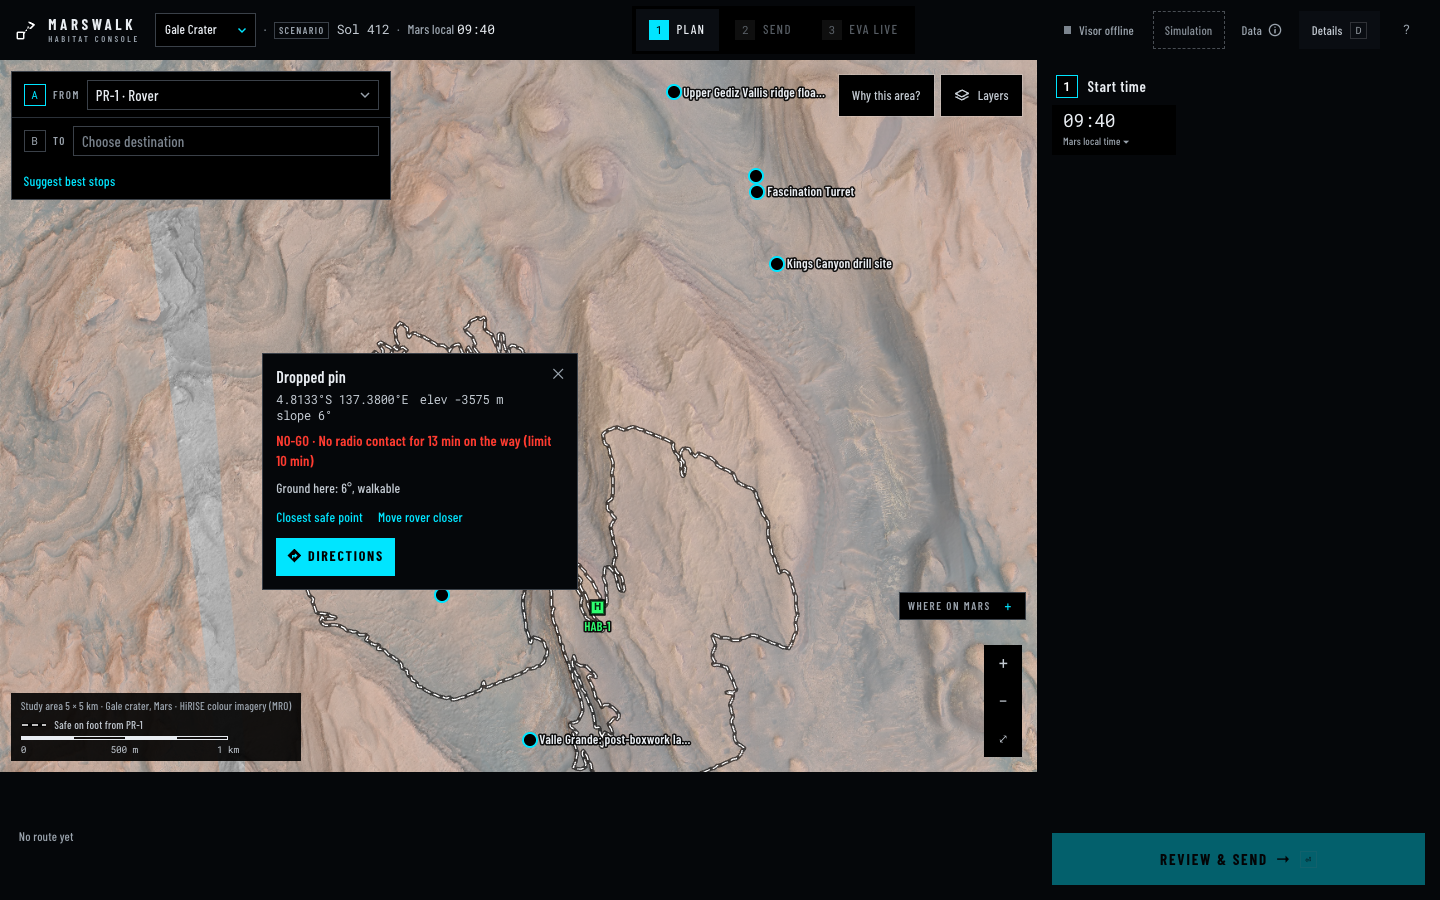
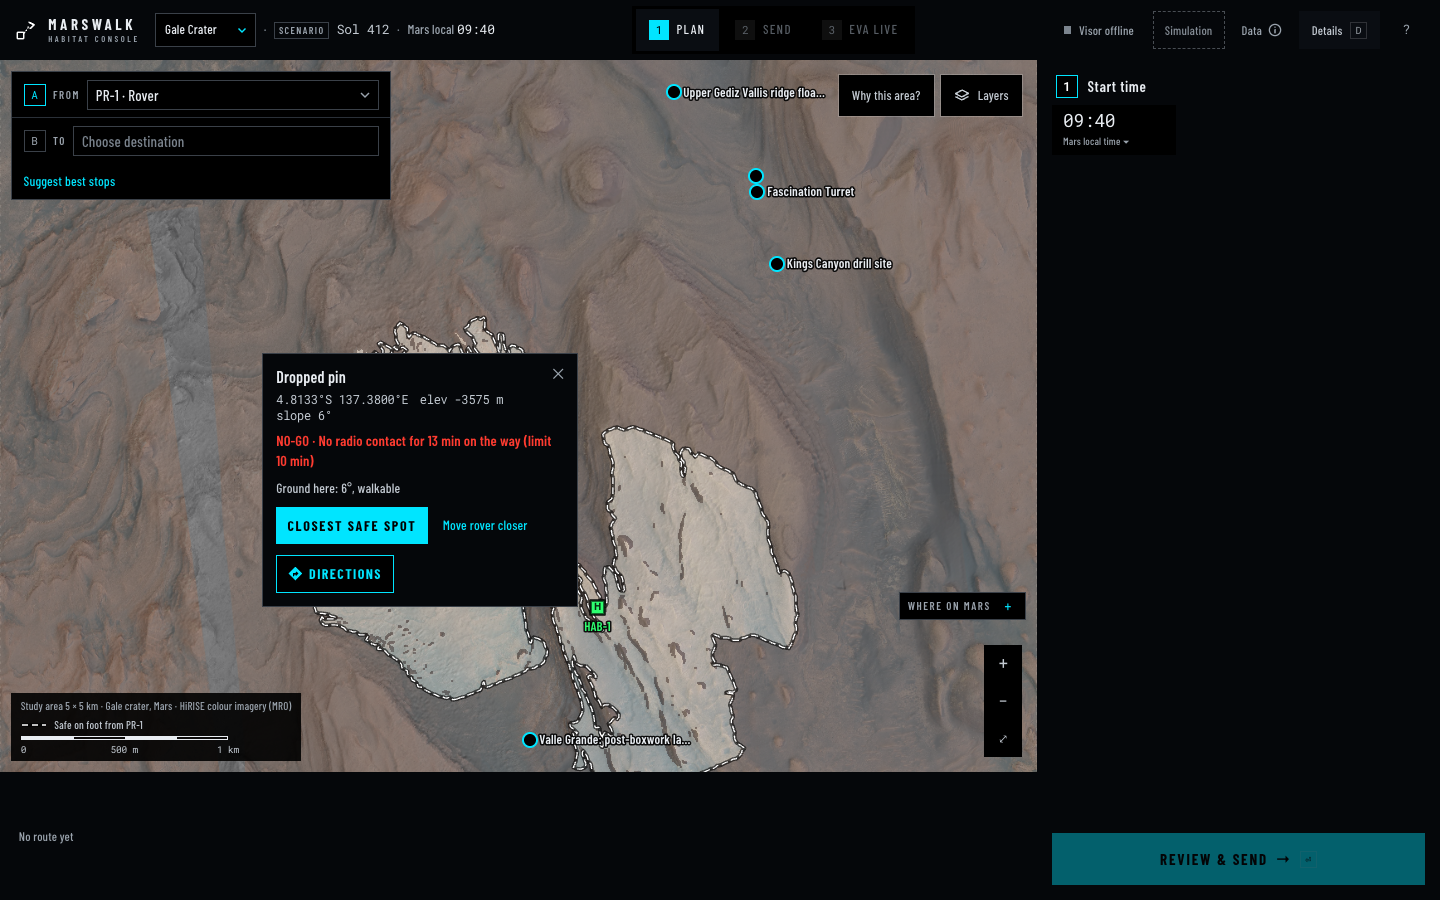
Console round 3: walkable area shaded from the start; no amber; NO-GO card leads with the fix
From the third blind round (all three testers' top ask: "show me where I can walk"):
- The exact per-cell safe-area shading (used by "Why this area?") is on by
  default at a calmer strength: walkable ground lit, the rest dimmed, small
  steep patches inside the outline dimmed too (the simplified outline alone
  hid them).
- "Why this area?" highlighted each rule's area in amber; now red (both the
  WebGL and canvas paths). No amber anywhere in the product.
- Place card: on a NO-GO the closest safe spot is the primary button and
  Directions steps back to secondary.
- One plain line when no safe spot is near: "No safe spot within 300 m of
  your pin."

123 unit tests and 26 real-input UX tests pass.

diff --git a/Frontend/AdminView/src/components/PlaceCard.tsx b/Frontend/AdminView/src/components/PlaceCard.tsx
@@ -147,8 +147,8 @@ function PlaceCardInner({ root, pop }: { root: RefObject<HTMLElement | null>; po
         </div>
       )}
       {mine?.verdict === 'NO-GO' && (
-        <div className="mt-2.5 flex flex-wrap gap-x-4 gap-y-1 text-[13.5px]">
-          <button data-testid="place-fix-closest" onClick={() => void fixFromPin('closest')} className="text-cyan hover:underline">Closest safe point</button>
+        <div className="mt-2.5 flex flex-wrap items-center gap-x-4 gap-y-2 text-[13.5px]">
+          <Btn testId="place-fix-closest" primary onClick={() => void fixFromPin('closest')}>Closest safe spot</Btn>
           {mine.rule !== 'slope_max_deg' && <button data-testid="place-fix-rover" onClick={() => void fixFromPin('rover')} className="text-cyan hover:underline">Move rover closer</button>}
         </div>
       )}
@@ -157,9 +157,9 @@ function PlaceCardInner({ root, pop }: { root: RefObject<HTMLElement | null>; po
           <Btn testId="place-remove" onClick={() => removeDestination(id!)}>Remove stop</Btn>
         ) : (
           <>
-            <Btn testId="place-directions" primary onClick={() => directionsTo(target)}>
+            <Btn testId="place-directions" primary={mine?.verdict !== 'NO-GO'} onClick={() => directionsTo(target)}>
               <span className="inline-flex items-center gap-1.5">
-                <svg width="15" height="15" viewBox="0 0 16 16" aria-hidden><path d="M8 0.8 15.2 8 8 15.2 0.8 8Z" fill="currentColor" /><path d="M6 11V8.2h4M8.4 6.4 10.2 8.2 8.4 10" fill="none" stroke="#00e5ff" strokeWidth="1.5" /></svg>
+                <svg width="15" height="15" viewBox="0 0 16 16" aria-hidden><path d="M8 0.8 15.2 8 8 15.2 0.8 8Z" fill="currentColor" /><path d="M6 11V8.2h4M8.4 6.4 10.2 8.2 8.4 10" fill="none" stroke={mine?.verdict === 'NO-GO' ? '#000' : '#00e5ff'} strokeWidth="1.5" /></svg>
                 Directions
               </span>
             </Btn>

diff --git a/Frontend/AdminView/src/store.ts b/Frontend/AdminView/src/store.ts
@@ -206,8 +206,8 @@ export const useConsole = create<ConsoleState>()(
     attemptPlan: null,
     attemptPin: null,
     pinCheck: null,
-    overlays: [],
-    opacity: { safezone: 1, elevation: 0.8, slope: 0.85, rough: 0.85, ti: 0.75, crism: 0.8, shelter: 0.9, walkback: 0.85, los: 0.9 },
+    overlays: ['safezone'], // exact walkable-area shading on from the start (testers: "where can I go?")
+    opacity: { safezone: 0.6, elevation: 0.8, slope: 0.85, rough: 0.85, ti: 0.75, crism: 0.8, shelter: 0.9, walkback: 0.85, los: 0.9 },
     // Calm default: imagery (+ lighting), route, science targets, base and rover, safe-area outline.
     vectors: { outline: true, contours: false, keepouts: false, traverse: false, stations: true, stationDetail: false, route: true, shelters: true, imagery: true, relief: true },
     details: { open: false, tab: 'report' },

diff --git a/Shared/src/map/styles.ts b/Shared/src/map/styles.ts
@@ -150,7 +150,7 @@ export function safeZoneStyle(
   const active: ExpressionValue = ['any', ...exclusions.map(([e, i]) => ['all', e, ['==', v('act'), i]] as ExpressionValue)];
   const veil = colors.veil ?? [8, 9, 12, 0.58];
   const safe = colors.safe ?? [79, 209, 224, 0.12];
-  const hot = colors.active ?? [242, 181, 68, 0.5];
+  const hot = colors.active ?? [255, 59, 48, 0.5]; // the rule being explained: red (no amber in this product)
   return {
     variables: { ...SAFE_ZONE_OPEN, ...vars } as unknown as Record<string, number>,
     color: [

diff --git a/Frontend/AdminView/src/map/MapController.ts b/Frontend/AdminView/src/map/MapController.ts
@@ -610,7 +610,7 @@ export class MapController {
       const prev = ex.some((k) => k !== v.act);
       const act = ex.includes(v.act);
       if (prev || (act && v.actGlow < 0.3)) { out[o] = 8; out[o + 1] = 9; out[o + 2] = 12; out[o + 3] = 140; }
-      else if (act) { out[o] = 242; out[o + 1] = 181; out[o + 2] = 68; out[o + 3] = 128; }
+      else if (act) { out[o] = 255; out[o + 1] = 59; out[o + 2] = 48; out[o + 3] = 128; }
       else { out[o] = 79; out[o + 1] = 209; out[o + 2] = 224; out[o + 3] = 26; }
     };
   }

diff --git a/Frontend/AdminView/src/fixes.ts b/Frontend/AdminView/src/fixes.ts
@@ -117,7 +117,7 @@ export async function findClosestSafe(destId: string) {
     }
   }
   if (my !== token) return;
-  set({ fix: { destId, kind: 'closest', status: 'none', note: cands.length ? `No spot within ${CLOSEST_MAX_M} m makes this walk safe.` : `Every spot within ${CLOSEST_MAX_M} m breaks a hard rule.` } });
+  set({ fix: { destId, kind: 'closest', status: 'none', note: `No safe spot within ${CLOSEST_MAX_M} m of ${destId.startsWith('P') ? 'your pin' : 'this target'}.` } });
   void restoreServerBase();
 }
 
